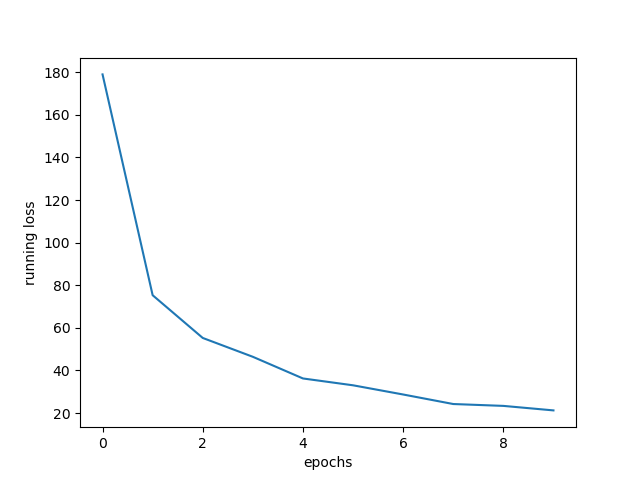
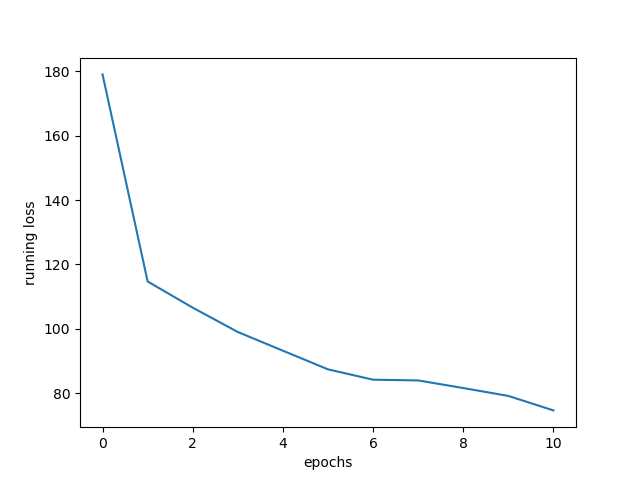
docker image is working

diff --git a/src/models/train_model.py b/src/models/train_model.py
@@ -33,53 +33,57 @@ class TrainOREvaluate(object):
         from a single script
     """
     def __init__(self):
-        ##get data
+        #get data
         
-        
-        parser = argparse.ArgumentParser(
-            description="Script for either training or evaluating",
-            usage="python main.py <command>"
-        )
+        try:
+            parser = argparse.ArgumentParser(
+                description="Script for either training or evaluating",
+                usage="python main.py <command>"
+            )
 
-        parser.add_argument(
-            "command", choices=["train", "evaluate"], help="Subcommand to run"
-        )
-        
-        args = parser.parse_args(sys.argv[1:2])
-        if not hasattr(self, args.command):
-            print('Unrecognized command')
+            parser.add_argument(
+                "command", choices=["train", "evaluate"], help="Subcommand to run"
+            )
             
-            parser.print_help()
-            exit(1)
+            args = parser.parse_args(sys.argv[1:2])
+
+            if not hasattr(self, args.command):
+                print('Unrecognized command')
+                
+                parser.print_help()
+                exit(1)
+            
+            
+            # use dispatch pattern to invoke method with same name
+            getattr(self, args.command)()
+        except:
+            self.train()
         
-        
-        # use dispatch pattern to invoke method with same name
-        getattr(self, args.command)()
     
     def train(self):
         print("Training day and night")
         parser = argparse.ArgumentParser(description='Training arguments')
-        parser.add_argument("--c",'-checkpoint',type=str, default='models/processed/corruptmnist/',help="checkpoint directory")
-        parser.add_argument("--cname",'-checkpoint_filename',type=str, default='checkpoint.pth',help="checkpoint filename -- checkpoint.pth")
+        # parser.add_argument("--c",'-checkpoint',type=str, default='models/processed/corruptmnist/',help="checkpoint directory")
+        # parser.add_argument("--cname",'-checkpoint_filename',type=str, default='checkpoint.pth',help="checkpoint filename -- checkpoint.pth")
         parser.add_argument("--lr", type=float, default=0.01, help="learning rate")
         parser.add_argument("--e", type=int, default=10, help="epoch")
-        parser.add_argument("--b", type=_power_of_2, default=64, help="batch size")
-        parser.add_argument("--cont", type=str, default=None, help="Path to model that should be trained again")
-        parser.add_argument("--PATH_IMG",type=str, default='data/processed/corruptmnist/train_images.pt',help="path to images")
-        parser.add_argument("--PATH_LAB", type=str, default='data/processed/corruptmnist/train_labels.pt', help="Path to labels")
+        # parser.add_argument("--b", type=_power_of_2, default=64, help="batch size")
+        # parser.add_argument("--cont", type=str, default=None, help="Path to model that should be trained again")
+        # parser.add_argument("--PATH_IMG",type=str, default='data/processed/corruptmnist/train_images.pt',help="path to images")
+        # parser.add_argument("--PATH_LAB", type=str, default='data/processed/corruptmnist/train_labels.pt', help="Path to labels")
 
-        # add any additional argument that you want
         args = parser.parse_args(sys.argv[2:])
         print(args)
 
-        epochs=args.e
+
+        checkpoint='models/processed/corruptmnist/'#args.c
+        checkpoint_name='checkpoint.pth'#args.cname
         lr=args.lr
-        batchsize=args.b
-        checkpoint=args.c
-        continue_training=args.cont
-        checkpoint_name=args.cname
-        PATH_IMG=args.PATH_IMG
-        PATH_LAB=args.PATH_LAB
+        epochs=args.e
+        batchsize=64#args.b
+        continue_training=None#args.cont
+        PATH_IMG='data/processed/corruptmnist/train_images.pt'#args.PATH_IMG
+        PATH_LAB='data/processed/corruptmnist/train_labels.pt'#args.PATH_LAB
 
         if checkpoint[-1] != '/':
             checkpoint.append('/')
@@ -152,24 +156,26 @@ class TrainOREvaluate(object):
                     accuracy=correct.type(torch.FloatTensor).mean()
                     accuracies.append(accuracy.item()*100)
                 print(f'Accuracy: {np.mean(accuracies)}%')
-        saveplot(train_losses,PATH='../../reports/figures/')
+        if not os.path.isdir('reports/figures/'):
+            os.makedirs('reports/figures/')
+        saveplot(train_losses,PATH='reports/figures/')
         
     def evaluate(self):
-        print("Evaluating until hitting the ceiling")
-        parser = argparse.ArgumentParser(description='Training arguments')
-        parser.add_argument('model_directory', default="models/processed/corruptmnist/")
-        parser.add_argument('model_filename', default="checkpoint.pth")
-        parser.add_argument("--PATH_IMG",type=str, default='data/processed/corruptmnist/train_images.pt',help="path to images")
-        parser.add_argument("--PATH_LAB", type=str, default='data/processed/corruptmnist/train_labels.pt', help="Path to labels")
+        # print("Evaluating until hitting the ceiling")
+        # parser = argparse.ArgumentParser(description='Training arguments')
+        # parser.add_argument('model_directory', default="models/processed/corruptmnist/")
+        # parser.add_argument('model_filename', default="checkpoint.pth")
+        # parser.add_argument("--PATH_IMG",type=str, default='data/processed/corruptmnist/train_images.pt',help="path to images")
+        # parser.add_argument("--PATH_LAB", type=str, default='data/processed/corruptmnist/train_labels.pt', help="Path to labels")
 
-        # add any additional argument that you want
-        args = parser.parse_args(sys.argv[2:])
-        print(args)
+        # # add any additional argument that you want
+        # args = parser.parse_args(sys.argv[2:])
+        # print(args)
         
-        model_directory=args.model_directory
-        model_filename=args.model_filename
-        PATH_IMG=args.PATH_IMG
-        PATH_LAB=args.PATH_LAB
+        model_directory="models/processed/corruptmnist/"#args.model_directory
+        model_filename="checkpoint.pth"#args.model_filename
+        PATH_IMG='data/processed/corruptmnist/train_images.pt'#args.PATH_IMG
+        PATH_LAB='data/processed/corruptmnist/train_labels.pt'#args.PATH_LAB
 
 
         testset=DSF(PATH_IMG,PATH_LAB)
